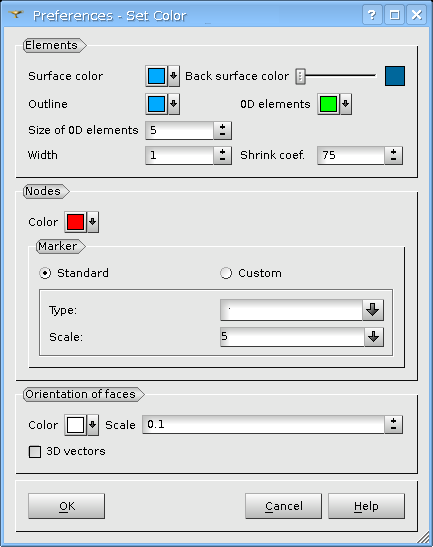
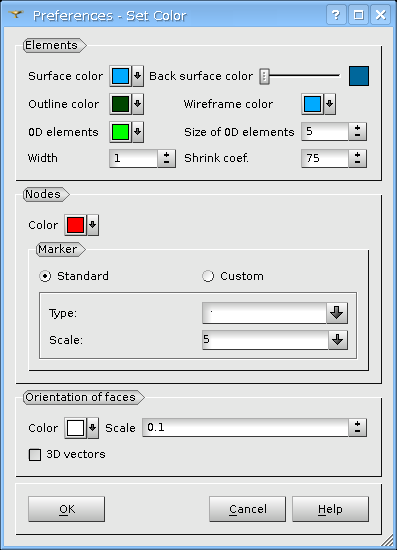
Implementation of the issue 20984: EDF 1566 SMESH: Better visibility of the elements in a shrinked representation.

diff --git a/src/SMESHGUI/SMESH_msg_en.ts b/src/SMESHGUI/SMESH_msg_en.ts
@@ -3553,6 +3553,22 @@ Please, create VTK viewer and try again</translation>
         <translation>Back surface color</translation>
     </message>
     <message>
+        <source>PREF_WIREFRAME</source>
+        <translation>Wireframe color</translation>
+    </message>
+    <message>
+        <source>PREF_GROUP_SELECTION</source>
+        <translation>Selection</translation>
+    </message>            
+    <message>
+        <source>PREF_SELECTION</source>
+        <translation>Selection color</translation>
+    </message>
+    <message>
+        <source>PREF_PRE_SELECTION</source>
+        <translation>Pre-selection color</translation>
+    </message>    
+    <message>
         <source>PREF_COLOR</source>
         <translation>Color</translation>
     </message>
@@ -3706,7 +3722,7 @@ Please, create VTK viewer and try again</translation>
     </message>
     <message>
         <source>PREF_OUTLINE</source>
-        <translation>Outline</translation>
+        <translation>Outline color</translation>
     </message>
     <message>
         <source>PREF_PRECISION_USE</source>

diff --git a/src/OBJECT/SMESH_ActorDef.h b/src/OBJECT/SMESH_ActorDef.h
@@ -110,6 +110,10 @@ class SMESH_ActorDef : public SMESH_Actor
   virtual void SetEdgeColor(vtkFloatingPointType r,vtkFloatingPointType g,vtkFloatingPointType b);
   virtual void GetEdgeColor(vtkFloatingPointType& r,vtkFloatingPointType& g,vtkFloatingPointType& b);
 
+  virtual void SetOutlineColor(vtkFloatingPointType r,vtkFloatingPointType g,vtkFloatingPointType b);
+  virtual void GetOutlineColor(vtkFloatingPointType& r,vtkFloatingPointType& g,vtkFloatingPointType& b);
+
+
   virtual void SetNodeColor(vtkFloatingPointType r,vtkFloatingPointType g,vtkFloatingPointType b);
   virtual void GetNodeColor(vtkFloatingPointType& r,vtkFloatingPointType& g,vtkFloatingPointType& b);
 
@@ -232,7 +236,9 @@ class SMESH_ActorDef : public SMESH_Actor
   SMESH_DeviceActor* myPickableActor;
 
   vtkProperty* myHighlightProp;
+  vtkProperty* myOutLineProp;
   vtkProperty* myPreselectProp;
+          
   SMESH_DeviceActor* myHighlitableActor;
 
   eControl myControlMode;

diff --git a/src/OBJECT/SMESH_Actor.h b/src/OBJECT/SMESH_Actor.h
@@ -69,6 +69,9 @@ class SMESHOBJECT_EXPORT SMESH_Actor: public SALOME_Actor
 
   virtual void SetNodeColor(vtkFloatingPointType r,vtkFloatingPointType g,vtkFloatingPointType b) = 0;
   virtual void GetNodeColor(vtkFloatingPointType& r,vtkFloatingPointType& g,vtkFloatingPointType& b) = 0;
+  
+  virtual void SetOutlineColor(vtkFloatingPointType r,vtkFloatingPointType g,vtkFloatingPointType b) = 0;
+  virtual void GetOutlineColor(vtkFloatingPointType& r,vtkFloatingPointType& g,vtkFloatingPointType& b) = 0;  
 
   virtual void Set0DColor(vtkFloatingPointType r,vtkFloatingPointType g,vtkFloatingPointType b) = 0;
   virtual void Get0DColor(vtkFloatingPointType& r,vtkFloatingPointType& g,vtkFloatingPointType& b) = 0;

diff --git a/src/SMESHGUI/SMESHGUI_Preferences_ColorDlg.h b/src/SMESHGUI/SMESHGUI_Preferences_ColorDlg.h
@@ -88,6 +88,7 @@ private:
   SMESHGUI*             mySMESHGUI;            
 
   QtxBiColorTool*       toolSurfColor; 
+  QtxColorButton*       btnWireframeColor;
   QtxColorButton*       btnOutlineColor;
   QtxColorButton*       btn0DElementsColor;
   SalomeApp_IntSpinBox* SpinBox_0DElements_Size;
@@ -98,6 +99,8 @@ private:
   QtxColorButton*       btnOrientationColor;
   SMESHGUI_SpinBox*     SpinBox_Orientation_Scale;
   QCheckBox*            CheckBox_Orientation_3DVectors;
+  QtxColorButton*       btnPreselectionColor;
+  QtxColorButton*       btnSelectionColor;
 
   QString               myHelpFileName;
 };
